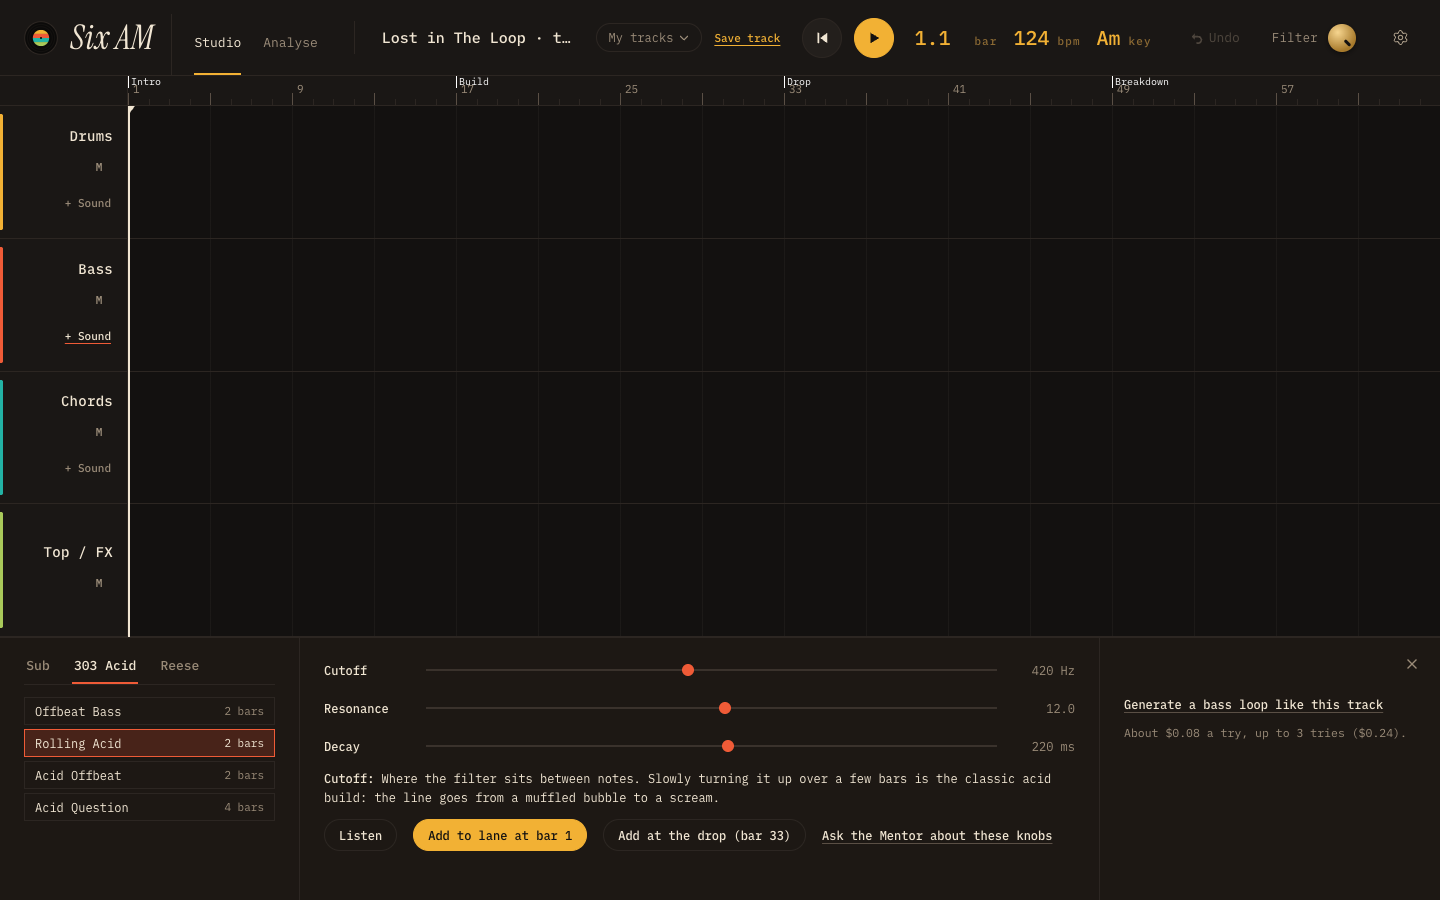
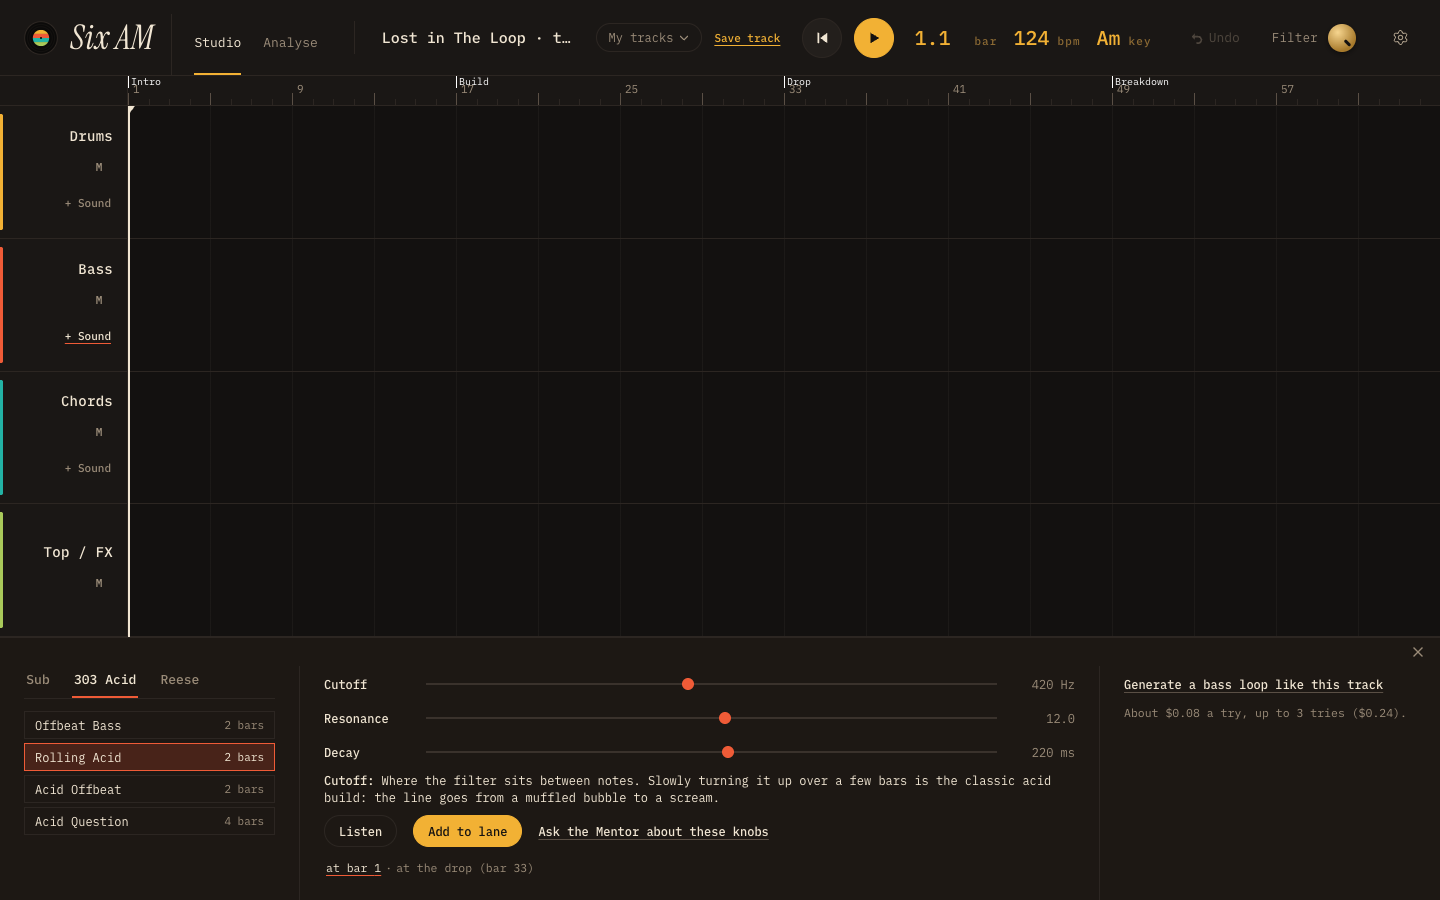
07 Six AM: drawer last design pass; T69

diff --git a/apps/07-six-am/src/components/studio/sound-drawer.tsx b/apps/07-six-am/src/components/studio/sound-drawer.tsx
@@ -184,20 +184,29 @@ export function SoundDrawer({ t, lane, sound, color, onClose }: {
   const aiLoop = cur.source === "ai" ? cur : null;
   // F10: the template's first drop, by its marker label.
   const drop = t.markers.find((m) => /drop/i.test(m.label));
+  const [where, setWhere] = useState<"playhead" | "drop">("playhead");
+  const atDrop = where === "drop" && !!drop && drop.bar !== bar;
+  const at = atDrop ? drop!.bar : bar;
   const listenTo = (x: Sound) => t.setPreviewSound(t.previewSound?.id === x.id ? null : x);
   // One cost line in every state (the Mentor's form): the selected or newest loop, plus today / month.
   const shown = aiLoop ? mine.find((l) => l.id === aiLoop.aiId) ?? { costUsd: aiLoop.costUsd, draws: aiLoop.draws }
-    : ai.is === "done" ? mine.find((l) => l.id === ai.id) : null;
+    : ai.is === "done" ? mine.find((l) => l.id === ai.id) : mine[0] ?? null;
   const costLine = shown ? aiCostLine(shown.costUsd, shown.draws, usage?.todayUsd ?? null, usage?.monthUsd ?? null, month()) : null;
   // Listen from the list: a stable preview id per stored loop, so Stop finds it again.
   const previewOf = (l: Listed): AiLoop => ({ ...asSound(l), id: `listen-${l.id}` });
 
   return (
     <aside className={s.drawer} style={{ ["--c" as string]: color }} aria-label={cur.source === "ai" ? "AI bass loop" : `${LANE_WORD[lane]} sound`}>
+      <div className={s.top}>
+        {mentor.is === "done" || mentor.is === "error" ? (
+          <button className={s.link} onClick={() => setMentor({ is: "idle" })}>Hide answer</button>
+        ) : null}
+        <button className={s.close} onClick={onClose} aria-label="Close the sound drawer"><X aria-hidden /></button>
+      </div>
       <div className={s.body}>
         <section className={s.pick}>
           {aiLoop ? (
-            <AiFacts x={aiLoop} />
+            <AiFacts x={aiLoop} why={ai.is === "done" && ai.id === aiLoop.aiId ? ai.why : null} />
           ) : (
             <>
               <div className={s.choices} role="radiogroup" aria-label={lane === 0 ? "Kit" : "Preset"}>
@@ -250,14 +259,9 @@ export function SoundDrawer({ t, lane, sound, color, onClose }: {
                 <button className={s.secondary} aria-pressed={listening && t.previewSound?.id === cur.id} onClick={() => listenTo(cur)}>{listening && t.previewSound?.id === cur.id ? "Stop" : "Listen"}</button>
                 {editing ? null : (
                   <>
-                    <button className={s.primary} onClick={() => { t.setPreviewSound(null); t.addSound(draft, bar); setDraft(starter(lane, chosen ?? undefined, "pattern" in draft ? draft.pattern : undefined)); }}>
-                      Add to lane at bar {bar}
+                    <button className={s.primary} onClick={() => { t.setPreviewSound(null); t.addSound(draft, at); setDraft(starter(lane, chosen ?? undefined, "pattern" in draft ? draft.pattern : undefined)); }}>
+                      Add to lane
                     </button>
-                    {drop && drop.bar !== bar ? (
-                      <button className={s.secondary} onClick={() => { t.setPreviewSound(null); t.addSound(draft, drop.bar); setDraft(starter(lane, chosen ?? undefined, "pattern" in draft ? draft.pattern : undefined)); }}>
-                        Add at the {drop.label.toLowerCase()} (bar {drop.bar})
-                      </button>
-                    ) : null}
                   </>
                 )}
                 {cur.source === "synth" ? (
@@ -266,7 +270,16 @@ export function SoundDrawer({ t, lane, sound, color, onClose }: {
                   </button>
                 ) : null}
               </div>
-              {editing ? <p className={s.dim}>Changes apply to every block of this sound.</p> : null}
+              {editing ? <p className={s.dim}>Changes apply to every block of this sound.</p> : (
+                // F10: where Add puts it: the playhead, or the template's drop.
+                <p className={s.where} role="radiogroup" aria-label="Where to add">
+                  <button role="radio" aria-checked={!atDrop} className={cx(s.whereBtn, !atDrop && s.whereOn)} onClick={() => setWhere("playhead")}>at bar {bar}</button>
+                  {drop && drop.bar !== bar ? <>
+                    <span aria-hidden> · </span>
+                    <button role="radio" aria-checked={atDrop} className={cx(s.whereBtn, atDrop && s.whereOn)} onClick={() => setWhere("drop")}>at the {drop.label.toLowerCase()} (bar {drop.bar})</button>
+                  </> : null}
+                </p>
+              )}
             </>
           ) : null}
         </section>
@@ -281,18 +294,18 @@ export function SoundDrawer({ t, lane, sound, color, onClose }: {
                 : ai.is === "limit" ? <p className={s.dim} role="status">{ai.text}</p>
                 : ai.is === "done" ? (
                   <p className={s.dim} role="status">
-                    {ai.bar !== null ? `Added at bar ${ai.bar}.` : "The Bass lane is full: it's in your loops below."}{ai.why ? ` ${ai.why}` : ""}
+                    {ai.bar !== null ? `Added at bar ${ai.bar}.` : "The Bass lane is full: it's in your loops below."}
                   </p>
-                ) : <p className={s.dim}>About $0.08 a try, up to 3 tries ($0.24).</p>}
+                ) : costLine ? null : <p className={s.dim}>About $0.08 a try, up to 3 tries ($0.24).</p>}
               {costLine ? <p className={s.dim}>{costLine}</p> : null}
               {mine.length ? (
                 <div className={s.mine}>
-                  <h3 className={s.mineHead}>Your AI loops</h3>
+                  <h3 className={s.mineHead}>Your loops</h3>
                   <ul>
                     {mine.map((l, i) => {
                       const x = previewOf(l), on = t.previewSound?.id === x.id;
                       return (
-                        <li key={l.id} className={cx(s.loop, aiLoop?.aiId === l.id && s.loopOn)}>
+                        <li key={l.id} className={cx(s.loop, aiLoop?.aiId === l.id && s.loopOn)} aria-current={aiLoop?.aiId === l.id || undefined}>
                           <span title={l.measured ? `Measured ${l.measured.bpm.toFixed(1)} BPM, ${l.measured.key} ${l.measured.scale}` : undefined}>
                             {mine.length - i}. {l.bpm} BPM · {l.key}{l.scale === "minor" ? "m" : ""} · {usdShort(l.costUsd)}{l.checked ? "" : " · check missed"}
                           </span>
@@ -308,16 +321,12 @@ export function SoundDrawer({ t, lane, sound, color, onClose }: {
           ) : null}
         </section>
       </div>
-      {mentor.is === "done" || mentor.is === "error" ? (
-        <button className={cx(s.link, s.hide)} onClick={() => setMentor({ is: "idle" })}>Hide answer</button>
-      ) : null}
-      <button className={s.close} onClick={onClose} aria-label="Close the sound drawer"><X aria-hidden /></button>
     </aside>
   );
 }
 
 /** What an AI loop is: made at, measured, and whether it passed the check (plain words). */
-function AiFacts({ x }: { x: AiLoop }) {
+function AiFacts({ x, why }: { x: AiLoop; why: string | null }) {
   const m = x.measured;
   const offTempo = m ? Math.abs(m.bpm - x.bpm) > 1 : false;
   const warn = !x.checked ? (offTempo ? "may be off tempo" : "may be off key") : null;
@@ -327,6 +336,7 @@ function AiFacts({ x }: { x: AiLoop }) {
       <p>Made at {x.bpm} BPM in {x.key} {x.scale}.</p>
       {m ? <p>Measured {m.bpm.toFixed(1)} BPM, {m.key} {m.scale}{warn ? <> — <b className={s.warn}>{warn}</b></> : null}</p>
         : <p>Not measured{warn ? <> — <b className={s.warn}>{warn}</b></> : null}</p>}
+      {why ? <p className={s.dim}>{why}</p> : null}
     </div>
   );
 }

diff --git a/apps/07-six-am/src/components/studio/sound-drawer.module.css b/apps/07-six-am/src/components/studio/sound-drawer.module.css
@@ -5,12 +5,15 @@
   grid-row: 3; grid-column: 1; position: relative; min-height: 0; display: flex; flex-direction: column;
   border-top: 1px solid var(--line); background: #1d1814; color: var(--ink); font-family: var(--f-mono), monospace;
 }
-.body { height: 262px; display: grid; grid-template-columns: 300px minmax(0, 1fr) 340px; }
-.body section { min-width: 0; min-height: 0; padding: 18px 24px; overflow-y: auto; overscroll-behavior: contain; scrollbar-color: #3a322c transparent; }
+/* × (and Hide answer) above the columns, so all three columns start on one top edge. */
+.top { height: 28px; flex: none; display: flex; align-items: center; justify-content: flex-end; gap: 12px; padding: 0 8px 0 24px; }
+.body { height: 234px; display: grid; grid-template-columns: 300px minmax(0, 1fr) 340px; }
+.body section { min-width: 0; min-height: 0; padding: 4px 24px 14px; overflow-y: auto; overscroll-behavior: contain; scrollbar-color: #3a322c transparent; }
+.top .link { padding: 0; min-height: 28px; align-self: center; }
 .pick { border-right: 1px solid var(--line); display: flex; flex-direction: column; gap: 12px; }
-.shape { display: flex; flex-direction: column; gap: 10px; border-right: 1px solid var(--line); }
+.shape { display: flex; flex-direction: column; gap: 6px; border-right: 1px solid var(--line); }
 /* The right column is the AI loop's (Bass only; empty elsewhere, so the knobs keep one width). */
-.ai { display: flex; flex-direction: column; gap: 6px; padding-top: 52px !important; }
+.ai { display: flex; flex-direction: column; gap: 6px; overflow: hidden !important; }
 
 .choices { display: flex; gap: 20px; border-bottom: 1px solid var(--line); flex: none; }
 .choice { background: none; border: 0; padding: 0 2px 8px; min-height: 28px; min-width: 28px; font: 500 13px var(--f-mono); color: var(--muted); cursor: pointer; border-bottom: 2px solid transparent; white-space: nowrap; }
@@ -47,8 +50,7 @@
 }
 .answer p { margin: 0; font: 400 12px/1.55 var(--f-mono); text-wrap: pretty; }
 .answer:focus-visible { outline: 1px solid var(--ink); outline-offset: 2px; }
-.hide { position: absolute; top: 12px; right: 52px; z-index: 1; }
-.line { margin: 0; min-height: 37px; font: 400 12px/1.55 var(--f-mono); color: var(--ink); display: -webkit-box; -webkit-line-clamp: 2; line-clamp: 2; -webkit-box-orient: vertical; overflow: hidden; }
+.line { margin: 0; min-height: 35px; font: 400 12px/1.45 var(--f-mono); color: var(--ink); display: -webkit-box; -webkit-line-clamp: 2; line-clamp: 2; -webkit-box-orient: vertical; overflow: hidden; }
 .line b { font-weight: 500; }
 
 .row { display: flex; align-items: center; gap: 16px; flex-wrap: wrap; margin-top: 2px; }
@@ -65,18 +67,25 @@
 .link:hover { text-decoration-color: var(--ink); }
 .link:disabled { color: var(--muted); cursor: default; text-decoration-color: transparent; }
 
-.close { position: absolute; top: 10px; right: 12px; z-index: 1; width: 32px; height: 32px; display: grid; place-items: center; background: #1d1814; border: 0; color: var(--muted); cursor: pointer; }
+.close { width: 28px; height: 28px; display: grid; place-items: center; background: none; border: 0; color: var(--muted); cursor: pointer; }
 .close svg { width: 16px; height: 16px; }
 .close:hover { color: var(--ink); }
 .primary:focus-visible, .secondary:focus-visible, .close:focus-visible, .link:focus-visible, .choice:focus-visible, .pattern:focus-visible { outline: 1px solid var(--ink); outline-offset: 2px; }
 
 /* F2: this track's AI loops */
-.mine { margin-top: 8px; padding-top: 10px; border-top: 1px solid var(--line); }
-.mineHead { margin: 0 0 6px; font: 500 12px var(--f-mono); }
-.mine ul { list-style: none; margin: 0; padding: 0; display: flex; flex-direction: column; gap: 2px; }
-.loop { display: flex; align-items: center; gap: 10px; min-height: 28px; font: 400 11.5px var(--f-mono); color: var(--ink); border-left: 2px solid transparent; padding-left: 6px; }
+/* F2: this track's AI loops, quiet; the list scrolls inside the column above a 1 px edge. */
+.mine { flex: 1; min-height: 0; display: flex; flex-direction: column; margin-top: 6px; }
+.mineHead { margin: 0 0 2px; font: 400 11.5px var(--f-mono); color: var(--muted); }
+.mine ul { flex: 1; min-height: 0; overflow-y: auto; overscroll-behavior: contain; list-style: none; margin: 0; padding: 0; display: flex; flex-direction: column; border-bottom: 1px solid var(--line); scrollbar-color: #3a322c transparent; }
+.loop { display: flex; align-items: center; gap: 10px; min-height: 28px; flex: none; font: 400 11.5px var(--f-mono); color: var(--muted); }
 .loop span { flex: 1; min-width: 0; overflow: hidden; text-overflow: ellipsis; white-space: nowrap; font-variant-numeric: tabular-nums; }
-.loopOn { border-left-color: var(--c); }
+.loopOn span { color: var(--ink); }
+/* F10: where Add puts the sound */
+.where { margin: 0; display: flex; align-items: center; gap: 2px; font: 400 11.5px var(--f-mono); color: var(--muted); }
+.whereBtn { min-height: 28px; padding: 0 2px; background: none; border: 0; font: inherit; color: var(--muted); cursor: pointer; }
+.whereBtn:hover { color: var(--ink); }
+.whereOn { color: var(--ink); text-decoration: underline; text-decoration-color: var(--c); text-underline-offset: 3px; }
+.whereBtn:focus-visible { outline: 1px solid var(--ink); outline-offset: 2px; }
 .mini { min-height: 28px; padding: 0 4px; background: none; border: 0; font: 500 11.5px var(--f-mono); color: var(--ink); text-decoration: underline; text-decoration-color: #5a4f45; text-underline-offset: 3px; cursor: pointer; }
 .mini:hover { text-decoration-color: var(--ink); }
 .mini:focus-visible { outline: 1px solid var(--ink); outline-offset: 2px; }

diff --git a/docs/products/07-six-am/decisions.md b/docs/products/07-six-am/decisions.md
@@ -209,3 +209,4 @@ Every decision except ops (decision 0026): L-numbers for learning decisions, T-n
 | L135 | 2026-10-26 | "Your AI loops" in the Bass drawer lists the 10 newest loops made for the template's reference track (by analysis id, numbers only); a new loop never replaces one; AI loops go into the first free bars at or after the playhead, never overwriting | PM (engineer's proposal) | S4 fixes | |
 | L136 | 2026-10-26 | Per-try reasons ("try 1 was off key") come back in the generate response only, not stored (no migration); after a reload the list shows "N tries" | PM (engineer's proposal) | S4 fixes | |
 | T68 | 2026-10-26 | Drawer fixes: worst case on the button ("up to 3 tries ($0.24)"); one cost line in the Mentor's form in every state; Mentor knob answer in a fixed 58 px box in the drawer; same knob width on every lane; daily limit in grey; "Add at the drop (bar N)" from the first /drop/ marker; clips < 140 px show the engine name, labels ellipsize; mute and tabs ≥ 28 px | PM | S3/S4 fixes | |
+| T69 | 2026-10-26 | Drawer last pass: idle cost hint only before a track's first loop; quiet "Your loops" list scrolling inside; × and Hide answer in a strip above three top-aligned columns; one gold Add with "at bar N · at the drop (bar N)" as small text; try reasons under Measured | PM | S3/S4 design | |
